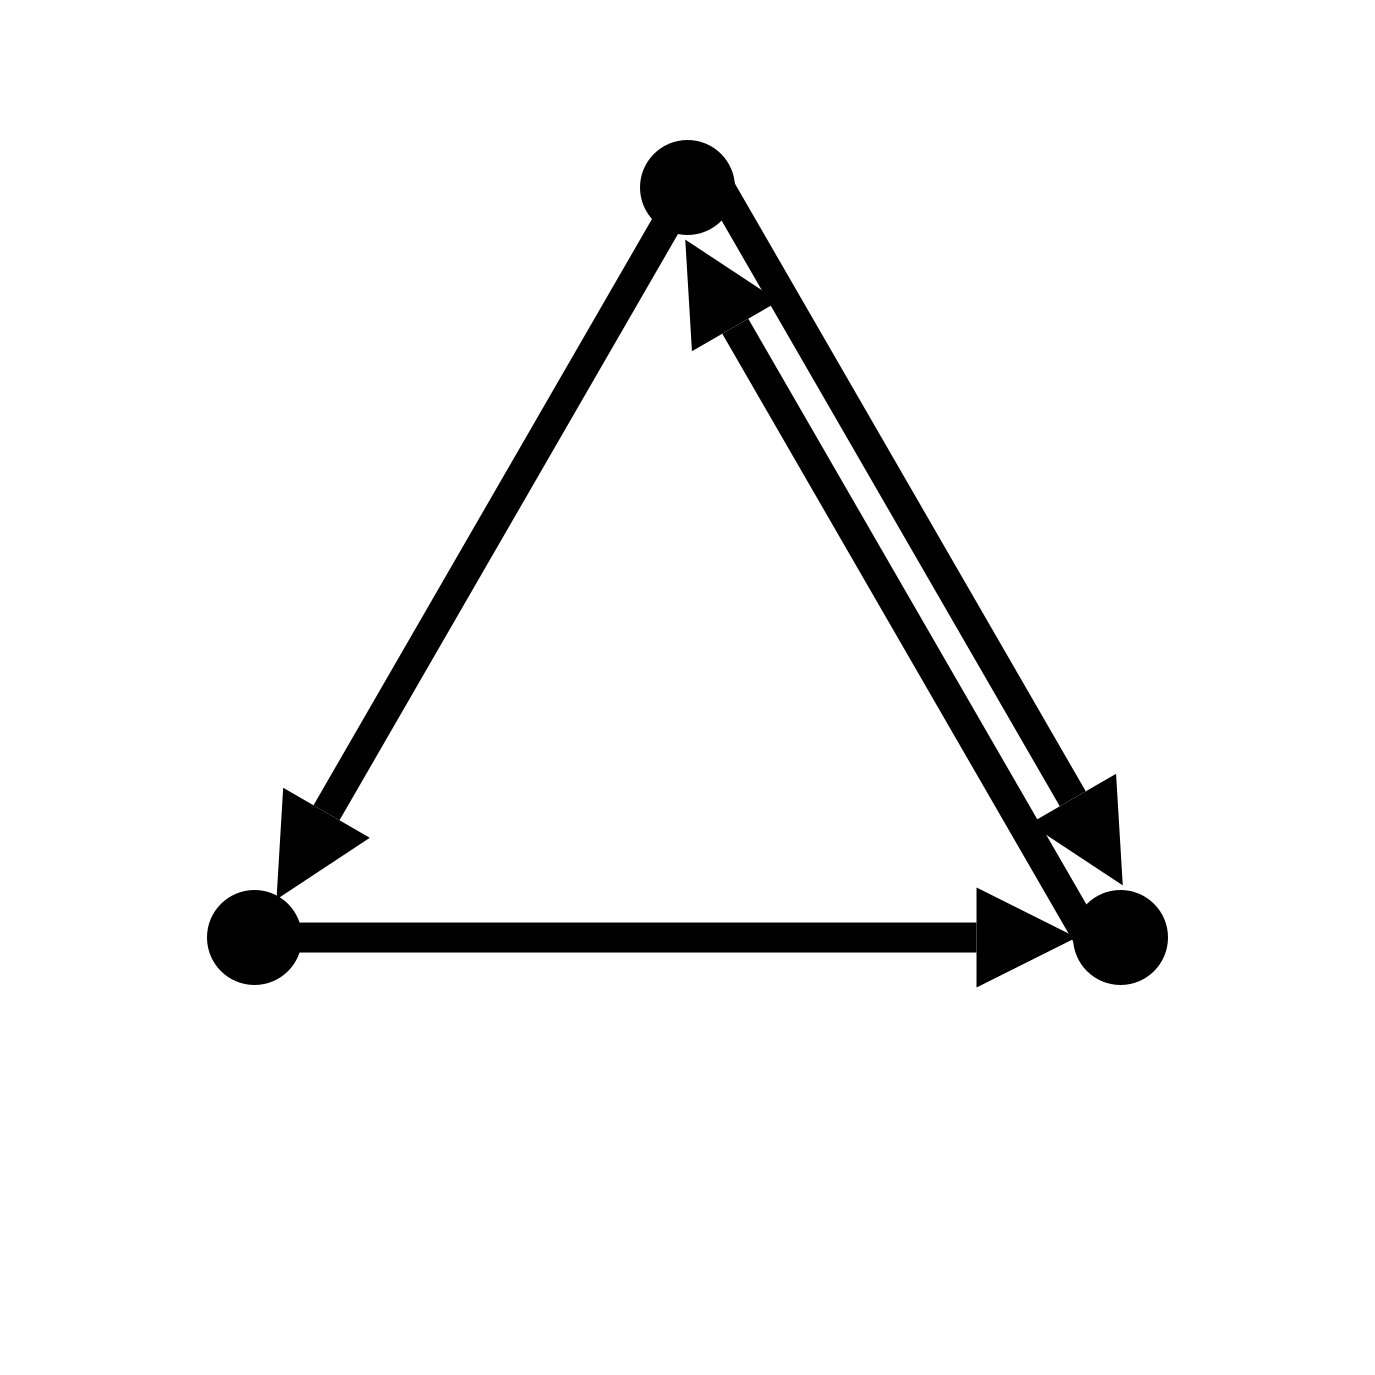
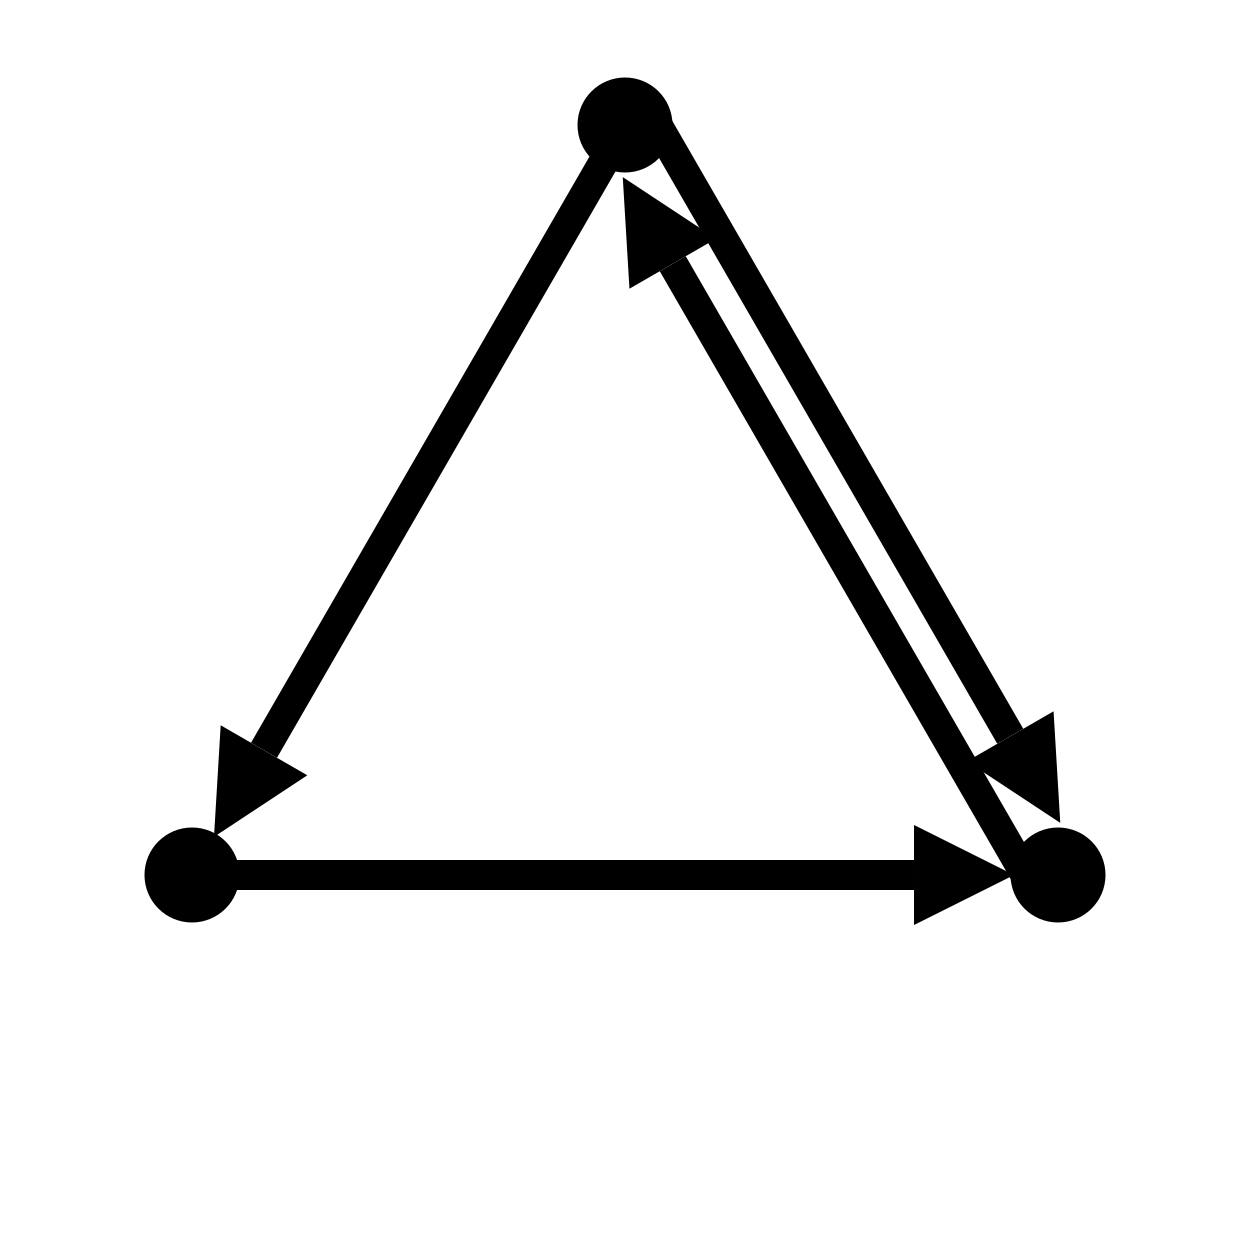
[plot] added svg plotting for networks -- used it to export pngs of all 3node motifs -- updated motifs

Changed region(s): [[0.0936, 0.0624, 0.9048, 0.7488]]

diff --git a/code/network_analysis/example_circuits.py b/code/network_analysis/example_circuits.py
@@ -45,6 +45,8 @@ def get_all_3node_motifs():
     ignores self-connections
         - that should lead to 2^9 = 512 graphs
     https://mathinsight.org/image/three_node_motifs
+    could put this motifs on the x-ticks with this approach:
+    https://stackoverflow.com/questions/8733558/how-can-i-make-the-xtick-labels-of-a-plot-be-simple-drawings-using-matplotlib
     '''
     g0 = ''
     g1 = 'A→B'
@@ -351,18 +353,22 @@ if __name__ == "__main__":
     draw_opts = {'connectionstyle':'arc3,rad=0','node_size':300,'node_color':'k'}
     draw_opts.update({'pos':pos})
     
+    
+    do_save_plots = True
+    
     for i in range(4):
         for j in range(4):
             k = i*4 + j
             
             # netplot.draw_np_adj(M[k],ax[i][j],more_options=draw_opts)
-            
+            this_png_name = f'motif_data/motif{k}.png' if do_save_plots else None
             _,svgg = svg.nx_to_svg_img(Gs[k],node_size=8,do_label=False,
                 arrow_head_width=20,
                 arrow_width=6,
                 arrow_displace_ratio = 0.7,
                 node_face_color='black',pos=pos,
-                save_png_file=f'motif_data/motif{k}.png'
+                border_padding=0,
+                save_png_file=this_png_name
                 )
                 
             myplot.imshow_png(ax[i][j],svgg,do_unbox=True)

diff --git a/code/network_analysis/_svg_draw.py b/code/network_analysis/_svg_draw.py
@@ -102,6 +102,12 @@ def draw_arrow(start, end=None, diff=None,r_back=0,displace_x=0,
     s = translate(s,start[0],start[1])
     
     return s
+
+# def draw_curved_arrow():
+    # not yet implemented, use https://github.com/awillats/circuit-visualizer-p5/blob/6499bf8d79921cad9401ddf529dc5811661c6787/plotFuns.js
+    # as reference
+
+    # pass
 #%%
 # Network SVG plotting 
 # consider moving this to network_plotting_functions
